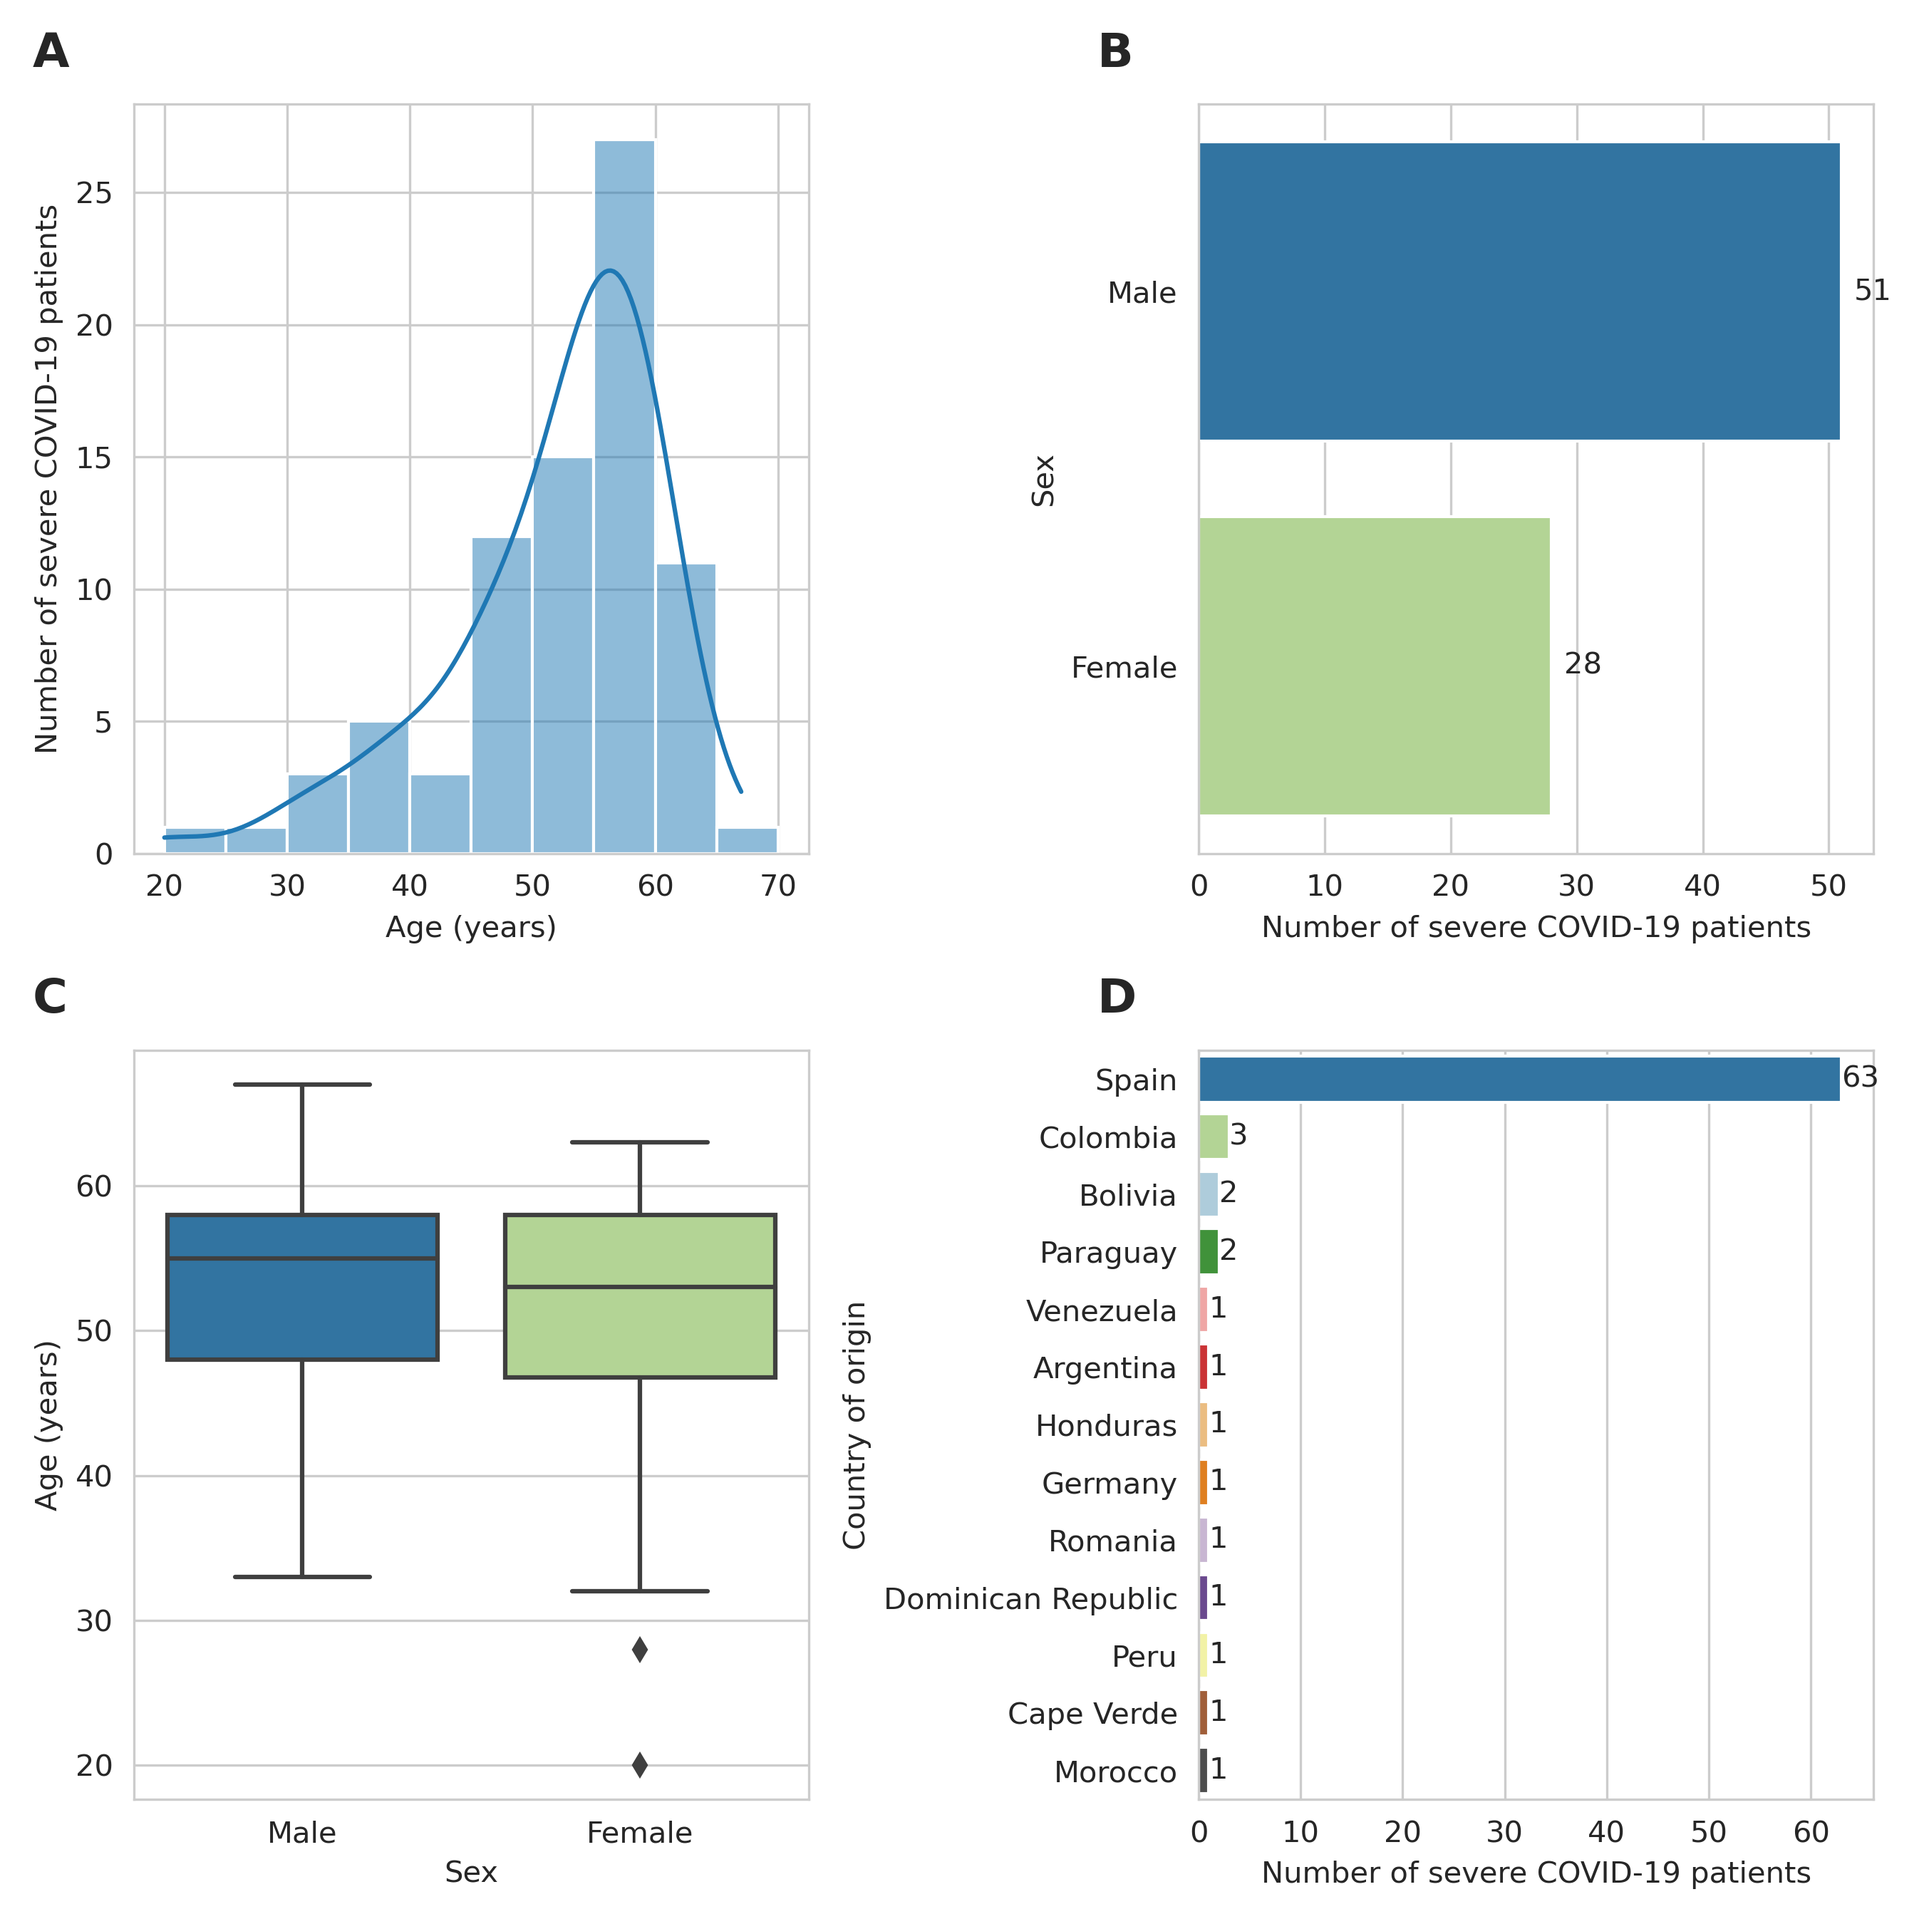
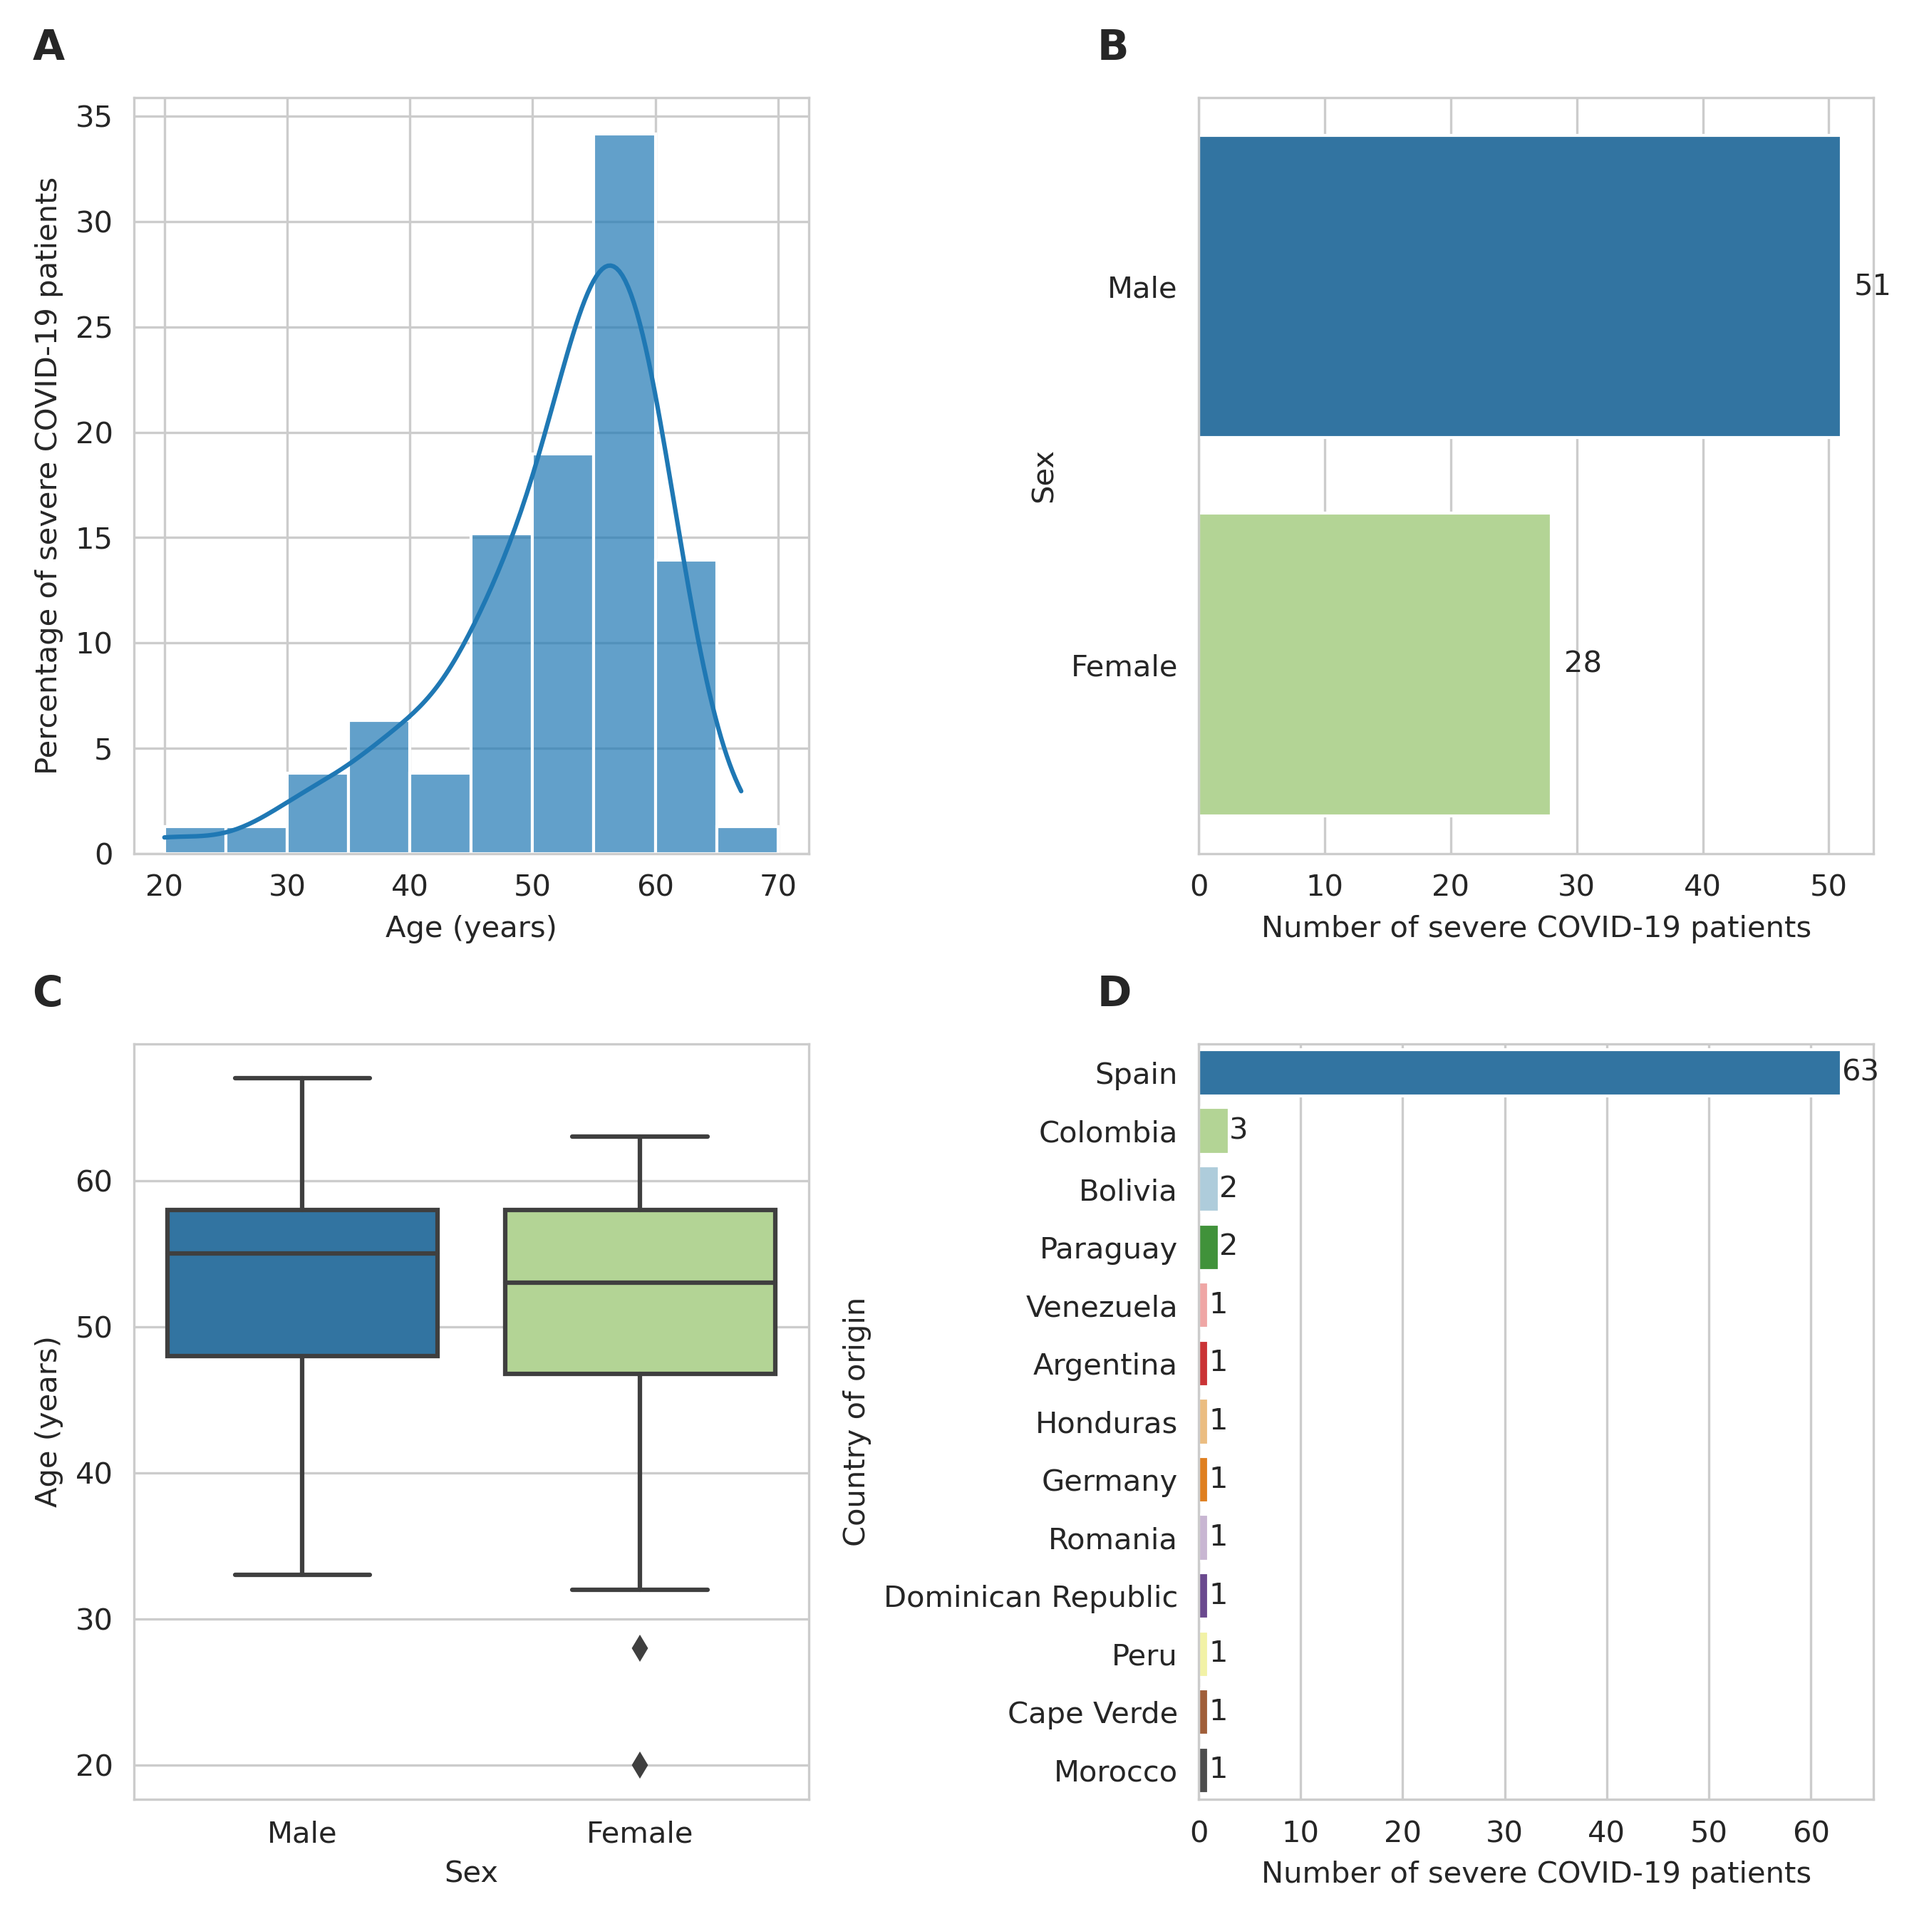
Update phenostats and pca scripts Respective output figures updated to reflect the changes to the script.

diff --git a/scripts/lib/phenostats.py b/scripts/lib/phenostats.py
@@ -1,7 +1,9 @@
 #!/usr/bin/env python
+import numpy as np
 import pandas as pd
 import matplotlib.pyplot as plt
 import seaborn as sns
+from scipy.stats import spearmanr
 
 # Load the data
 df = pd.read_csv("phenostats/phenostats.csv")
@@ -38,17 +40,18 @@ sns.histplot(
     ax=axs[0, 0],
     data=df,
     x="Age",
+    stat="percent",
     binwidth=5,
     binrange=(20, 69),
     kde=True,
     color=colors[0],
     fill=True,
-    alpha=0.5,
+    alpha=0.7,
 )
 axs[0, 0].set_xlabel("Age (years)")
-axs[0, 0].set_ylabel("Number of severe COVID-19 patients")
+axs[0, 0].set_ylabel("Percentage of severe COVID-19 patients")
 axs[0, 0].text(
-    -0.15, 1.05, "A", transform=axs[0, 0].transAxes, fontsize=16, fontweight="bold"
+    -0.15, 1.05, "A", transform=axs[0, 0].transAxes, fontsize=14, fontweight="bold"
 )
 
 sns.barplot(
@@ -62,13 +65,13 @@ for index, value in enumerate(df["Sex"].value_counts()):
 axs[0, 1].set_xlabel("Number of severe COVID-19 patients")
 axs[0, 1].set_ylabel("Sex")
 axs[0, 1].text(
-    -0.15, 1.05, "B", transform=axs[0, 1].transAxes, fontsize=16, fontweight="bold"
+    -0.15, 1.05, "B", transform=axs[0, 1].transAxes, fontsize=14, fontweight="bold"
 )
 
 sns.boxplot(ax=axs[1, 0], x="Sex", y="Age", data=df, palette=colors)
 axs[1, 0].set_ylabel("Age (years)")
 axs[1, 0].text(
-    -0.15, 1.05, "C", transform=axs[1, 0].transAxes, fontsize=16, fontweight="bold"
+    -0.15, 1.05, "C", transform=axs[1, 0].transAxes, fontsize=14, fontweight="bold"
 )
 
 sns.barplot(
@@ -82,7 +85,7 @@ for index, value in enumerate(df["Country_of_origin"].value_counts()):
 axs[1, 1].set_xlabel("Number of severe COVID-19 patients")
 axs[1, 1].set_ylabel("Country of origin")
 axs[1, 1].text(
-    -0.15, 1.05, "D", transform=axs[1, 1].transAxes, fontsize=16, fontweight="bold"
+    -0.15, 1.05, "D", transform=axs[1, 1].transAxes, fontsize=14, fontweight="bold"
 )
 
 plt.tight_layout()
@@ -95,70 +98,165 @@ sns.histplot(
     ax=axs[0, 0],
     data=df,
     x="Days_in_hospital",
-    bins=20,
+    stat="percent",
+    binwidth=5,
+    binrange=(0, 204),
     kde=True,
     color=colors[0],
     fill=True,
-    alpha=0.5,
+    alpha=0.7,
 )
 axs[0, 0].text(
-    -0.15, 1.05, "A", transform=axs[0, 0].transAxes, fontsize=16, fontweight="bold"
+    -0.15, 1.05, "A", transform=axs[0, 0].transAxes, fontsize=14, fontweight="bold"
 )
+axs[0, 0].set_xlabel("Days in hospital")
+axs[0, 0].set_ylabel("Percentage of severe COVID-19 patients")
 
-sns.boxplot(ax=axs[0, 1], x="Sex", y="Days_in_hospital", data=df, palette=colors)
+sns.boxplot(ax=axs[0, 1], x="Days_in_hospital", y="Sex", data=df, palette=colors)
 axs[0, 1].text(
-    -0.15, 1.05, "B", transform=axs[0, 1].transAxes, fontsize=16, fontweight="bold"
+    -0.15, 1.05, "B", transform=axs[0, 1].transAxes, fontsize=14, fontweight="bold"
 )
+axs[0, 1].set_xlabel("Days in hospital")
+axs[0, 1].set_ylabel("Sex")
 
 sns.countplot(ax=axs[1, 0], x="ICU admittance", data=df, palette=colors)
+for p in axs[1, 0].patches:
+    axs[1, 0].annotate(
+        f"{p.get_height():.0f}",
+        (p.get_x() + p.get_width() / 2.0, p.get_height()),
+        ha="center",
+        va="center",
+        fontsize=12,
+        color="black",
+        xytext=(0, 10),
+        textcoords="offset points",
+    )
 axs[1, 0].text(
-    -0.15, 1.05, "C", transform=axs[1, 0].transAxes, fontsize=16, fontweight="bold"
+    -0.15, 1.05, "C", transform=axs[1, 0].transAxes, fontsize=14, fontweight="bold"
 )
+axs[1, 0].set_xlabel("ICU admittance")
+axs[1, 0].set_ylabel("Number of severe COVID-19 patients")
+
+sns.countplot(ax=axs[1, 1], x="Sex", hue="ICU admittance", data=df, palette=colors)
+for p in axs[1, 1].patches:
+    axs[1, 1].annotate(
+        f"{p.get_height():.0f}",
+        (p.get_x() + p.get_width() / 2.0, p.get_height()),
+        ha="center",
+        va="center",
+        fontsize=12,
+        color="black",
+        xytext=(0, 10),
+        textcoords="offset points",
+    )
+axs[1, 1].text(
+    -0.15, 1.05, "D", transform=axs[1, 1].transAxes, fontsize=14, fontweight="bold"
+)
+axs[1, 1].set_xlabel("Sex")
+axs[1, 1].set_ylabel("Number of severe COVID-19 patients")
 
 sns.histplot(
-    ax=axs[1, 1],
+    ax=axs[2, 0],
     data=df,
     x="Age",
+    stat="percent",
+    binwidth=5,
+    binrange=(20, 69),
     hue="ICU admittance",
     multiple="stack",
     kde=True,
     palette=colors,
     fill=True,
-    alpha=0.5,
+    alpha=0.7,
 )
-axs[1, 1].text(
-    -0.15, 1.05, "D", transform=axs[1, 1].transAxes, fontsize=16, fontweight="bold"
-)
-
-sns.countplot(ax=axs[2, 0], x="Sex", hue="ICU admittance", data=df, palette=colors)
 axs[2, 0].text(
-    -0.15, 1.05, "E", transform=axs[2, 0].transAxes, fontsize=16, fontweight="bold"
+    -0.15, 1.05, "E", transform=axs[2, 0].transAxes, fontsize=14, fontweight="bold"
 )
+axs[2, 0].set_xlabel("Age (years)")
+axs[2, 0].set_ylabel("Percentage of severe COVID-19 patients")
 
 sns.histplot(
     ax=axs[2, 1],
     data=icu_df,
     x="ICU_Days",
-    bins=20,
+    stat="percent",
+    binwidth=5,
+    binrange=(1, 175),
     kde=True,
     color=colors[0],
     fill=True,
-    alpha=0.5,
+    alpha=0.7,
 )
 axs[2, 1].text(
-    -0.15, 1.05, "F", transform=axs[2, 1].transAxes, fontsize=16, fontweight="bold"
+    -0.15, 1.05, "F", transform=axs[2, 1].transAxes, fontsize=14, fontweight="bold"
 )
+axs[2, 1].set_xlabel("Days in ICU")
+axs[2, 1].set_ylabel("Percentage of severe COVID-19 patients")
 
 plt.tight_layout()
 plt.savefig("phenostats/plot_2.png", dpi=300)
 
 # Plot 3: Phenotype Analysis
+phenotype_labels = [
+    "Pneumonia",
+    "ARDS",
+    "ARDS & ICU",
+    "Exanthema",
+    "Myocarditis",
+    "Arrhythmia",
+    "Hepatitis",
+    "Glomerulonephritis",
+    "Tubulopathy",
+    "Encephalitis/encephalopathy",
+    "Psychiatric",
+    "Polyneuropathy",
+    "Myelitis",
+    "Seizure",
+    "Diarrhoea",
+    "Nausea/vomiting",
+    "Endocrine dysfunction",
+    "Myopathy",
+    "Arthritis",
+    "Bone marrow",
+    "Pulmonary embolism",
+    "Deep venous thrombosis",
+    "Peripheral arterial thrombosis",
+    "Stroke",
+    "Ischemic heart event",
+    "Disseminated intravascular coagulation",
+    "Persistent fever",
+    "Fatigue, malaise, headache",
+]
+
 sns.set_style("ticks")
 phenotype_df = df.loc[:, "V-1":"V-28"].applymap(lambda x: 1 if x == "YES" else 0)
-correlation_matrix = phenotype_df.corr(method="spearman")
+correlation_matrix, p_values = spearmanr(phenotype_df)
+
+# Create a mask for the upper triangle to hide repeated values
+mask = np.triu(np.ones_like(correlation_matrix, dtype=bool))
+
+# Set the significance level (alpha)
+alpha = 0.05
+
+# Create a new correlation matrix with empty values for non-significant correlations
+annot_matrix = np.where(p_values < alpha, correlation_matrix.round(2).astype(str), "")
+
 plt.figure(figsize=(16, 12))
-sns.heatmap(correlation_matrix, cmap="coolwarm", center=0, annot=True, fmt=".2f")
+sns.heatmap(
+    correlation_matrix,
+    cmap="coolwarm",
+    center=0,
+    annot=annot_matrix,  # Use the annot_matrix for annotations
+    fmt="",  # Empty format to display only color
+    xticklabels=phenotype_labels,
+    yticklabels=phenotype_labels,
+    mask=mask,  # Apply the mask to hide the upper triangle
+    cbar_kws={"label": "Spearman Correlation Coefficient"},
+)
+
 plt.title("Heatmap of Phenotype Correlations")
+plt.xticks(rotation=90)
+plt.yticks(rotation=0)
 plt.tight_layout()
 plt.savefig("phenostats/plot_3.png", dpi=300)
 

diff --git a/scripts/lib/pca.py b/scripts/lib/pca.py
@@ -164,13 +164,13 @@ fig, axs = pca_plot(
 # Save the 1000G PCA plot
 fig.savefig("pca/1000G_pca/1000G_PCA_plot.png", dpi=300)
 
-# Define superpopulations for the IBS plot
+# Define populations for the IBS plot
 populations_IBS = {
     "Iberian (IBS)": ["IBS"],
     "Severe COVID-19": ["Severe COVID-19"],
 }
 
-# Define colors for each superpopulation for the IBS plot
+# Define colors for each population for the IBS plot
 colors_IBS = ["#1f78b4", "#4d4d4d"]
 
 # Define color mapping for the IBS plot
